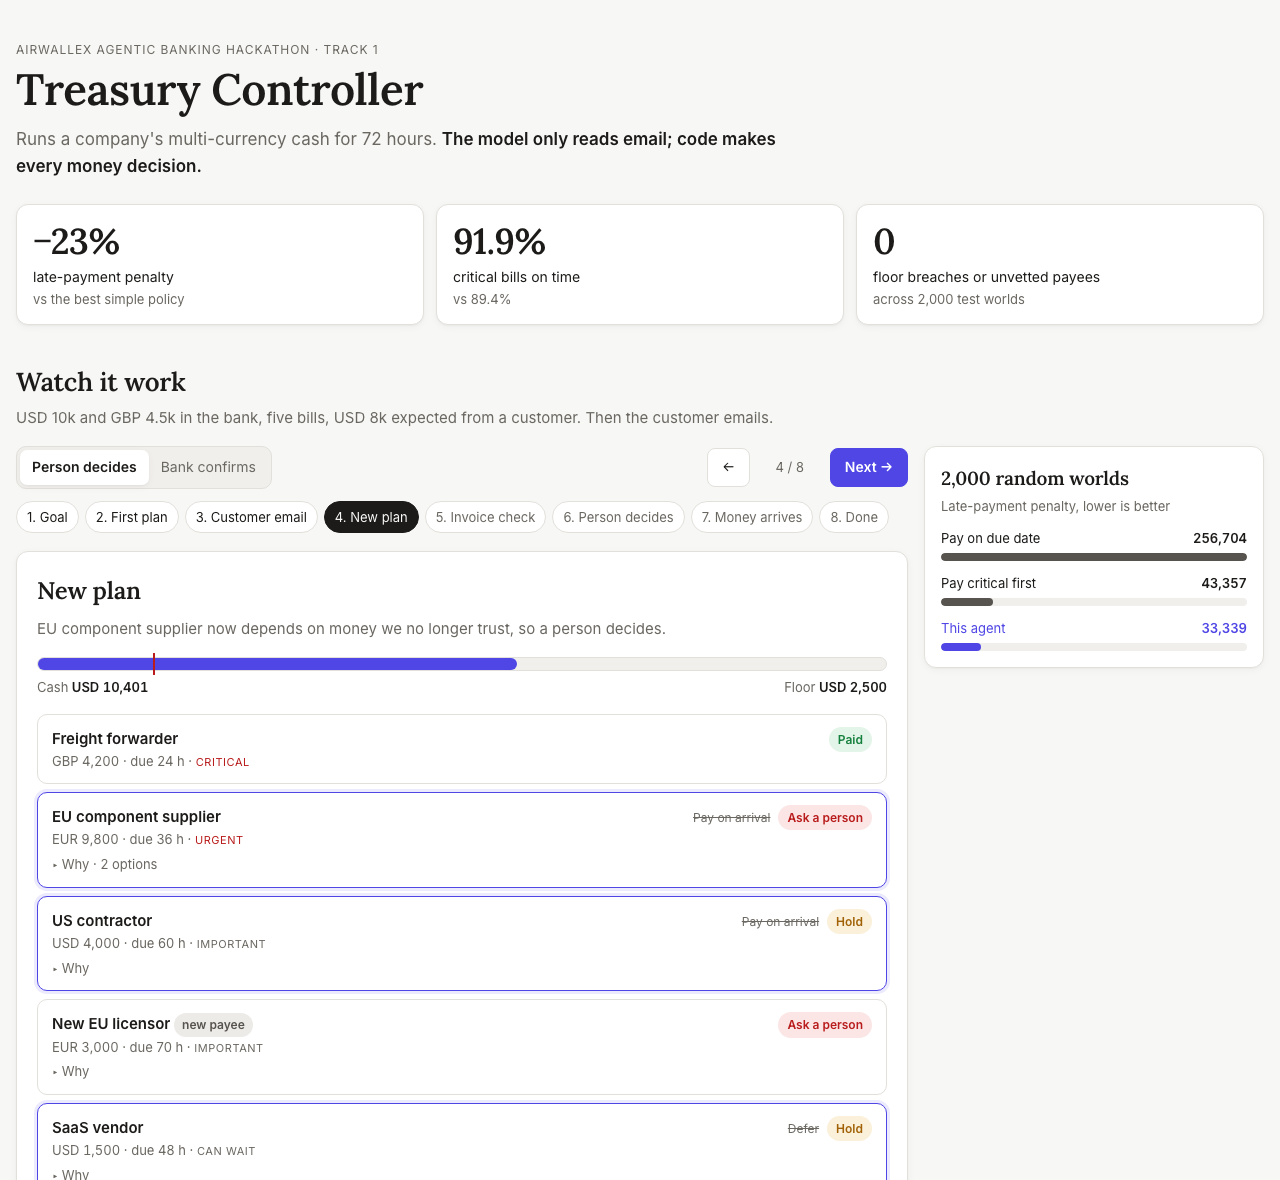
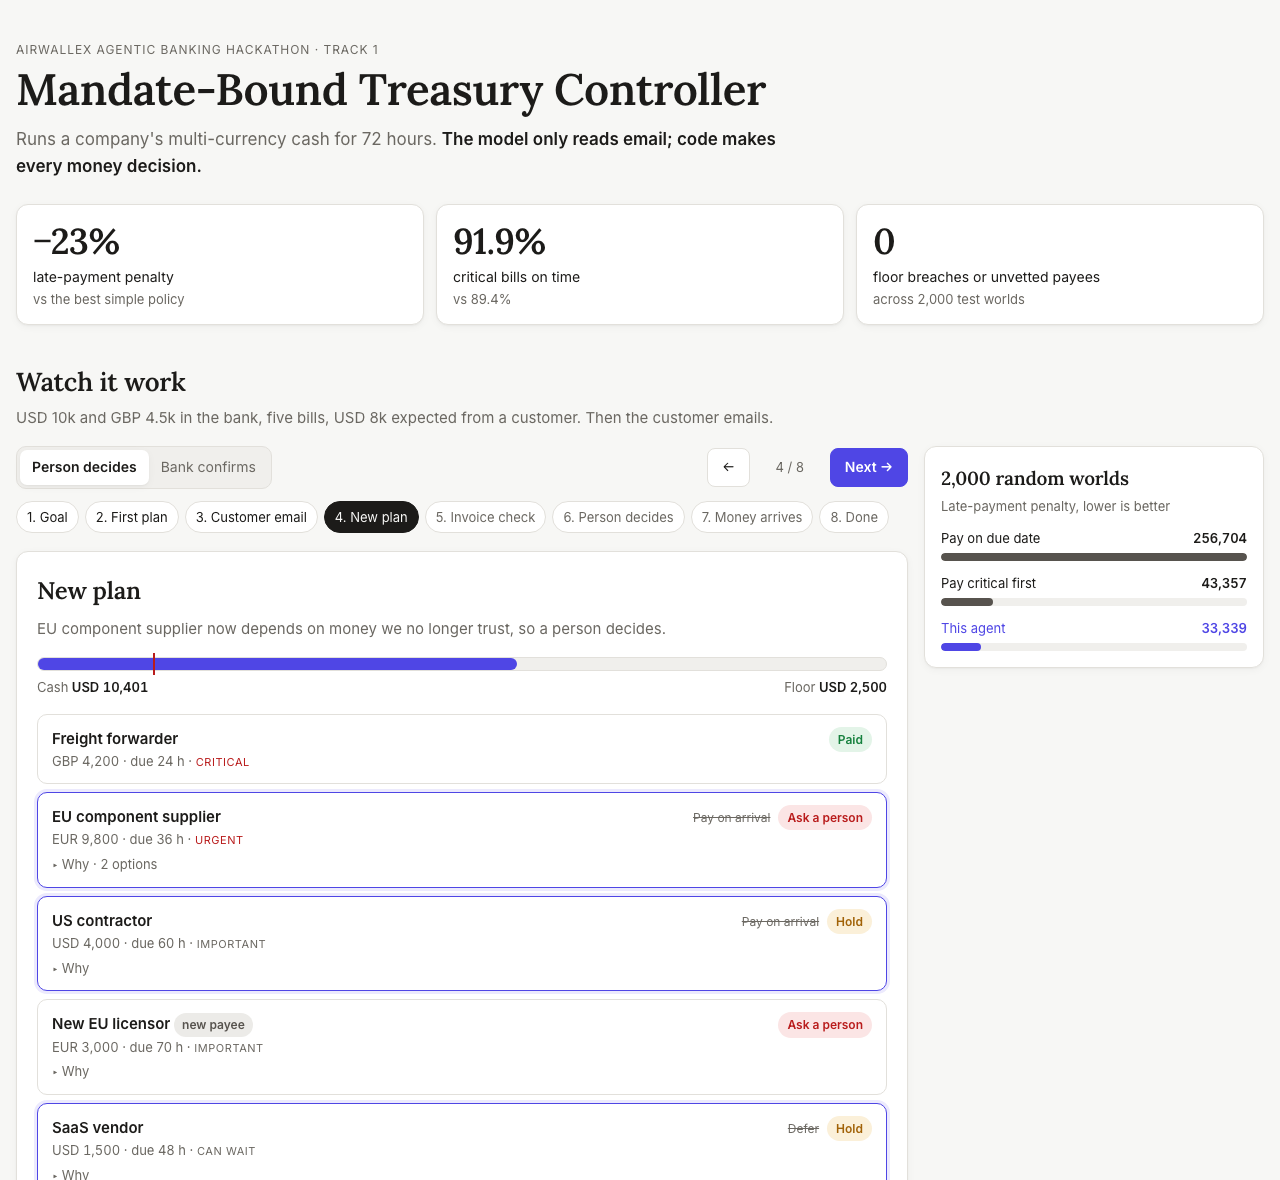
Name the project Mandate-Bound Treasury Controller

Changed region(s): [[0.0, 0.061, 0.5938, 0.0915]]

diff --git a/web/index.html b/web/index.html
@@ -3,7 +3,7 @@
 <head>
 <meta charset="utf-8">
 <meta name="viewport" content="width=device-width, initial-scale=1">
-<title>Treasury Controller Demo</title>
+<title>Mandate-Bound Treasury Controller</title>
 <meta name="description" content="An agent that runs multi-currency cash on Airwallex. The model reads email; code moves money.">
 <link rel="preconnect" href="https://fonts.googleapis.com">
 <link rel="preconnect" href="https://fonts.gstatic.com" crossorigin>
@@ -209,7 +209,7 @@ details > summary:hover { color: var(--accent); }
 <div class="wrap">
   <header class="top">
     <p class="eyebrow">Airwallex Agentic Banking Hackathon · Track 1</p>
-    <h1 id="product">Treasury Controller</h1>
+    <h1 id="product">Mandate-Bound Treasury Controller</h1>
     <p class="lede">Runs a company's multi-currency cash for 72 hours. <strong>The model only reads email; code makes every money decision.</strong></p>
     <div class="tiles" id="tiles"></div>
   </header>

diff --git a/README.md b/README.md
@@ -1,4 +1,4 @@
-# Treasury Controller
+# Mandate-Bound Treasury Controller
 
 An agent that runs a company's multi-currency cash for 72 hours on Airwallex. It decides which bills to pay, when, and
 from which currency, and it stops to ask a person when the money or the facts are not solid.

diff --git a/POLICY.md b/POLICY.md
@@ -1,4 +1,4 @@
-# Treasury Controller Policy
+# Mandate-Bound Treasury Controller: Policy
 
 Every threshold lives in `policy.json` (tiers, penalties, spread, SWIFT fees) or `scenario.json`
 (mandate, reserve floor, obligations, forecasts). Nothing below is decided by a prompt.
